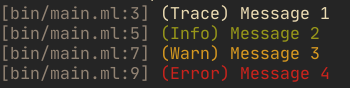
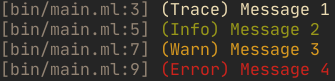
maj README.md

diff --git a/README.md b/README.md
@@ -6,22 +6,22 @@ Logger pour Ocaml.
 
 Fichier exemple `bin/main.ml`:
 
-```ocaml=
+```ocaml
 open Lib
 
-let () = Ocamlog.print Trace "Error"
+let () = Ocamlog.print Trace "Message 1"
 
-let () = Ocamlog.print Info "Error"
+let () = Ocamlog.print Info "Message 2"
 
-let () = Ocamlog.print Warning "Error"
+let () = Ocamlog.print Warning "Message 3"
 
-let () = Ocamlog.print Error "Error"
+let () = Ocamlog.print Error "Message 4"
 ```
 
 ![Preview image](preview/screen.png)
 
 # Inspiration
 
-Merci grand maître Émilien pour cette super idée :
-[https://github.com/emilienlemaire/CppLogger2](CppLogger2).
+Merci grand maître [Émilien](https://github.com/emilienlemaire) pour cette super idée :
+[CppLogger2](https://github.com/emilienlemaire/CppLogger2)
 
